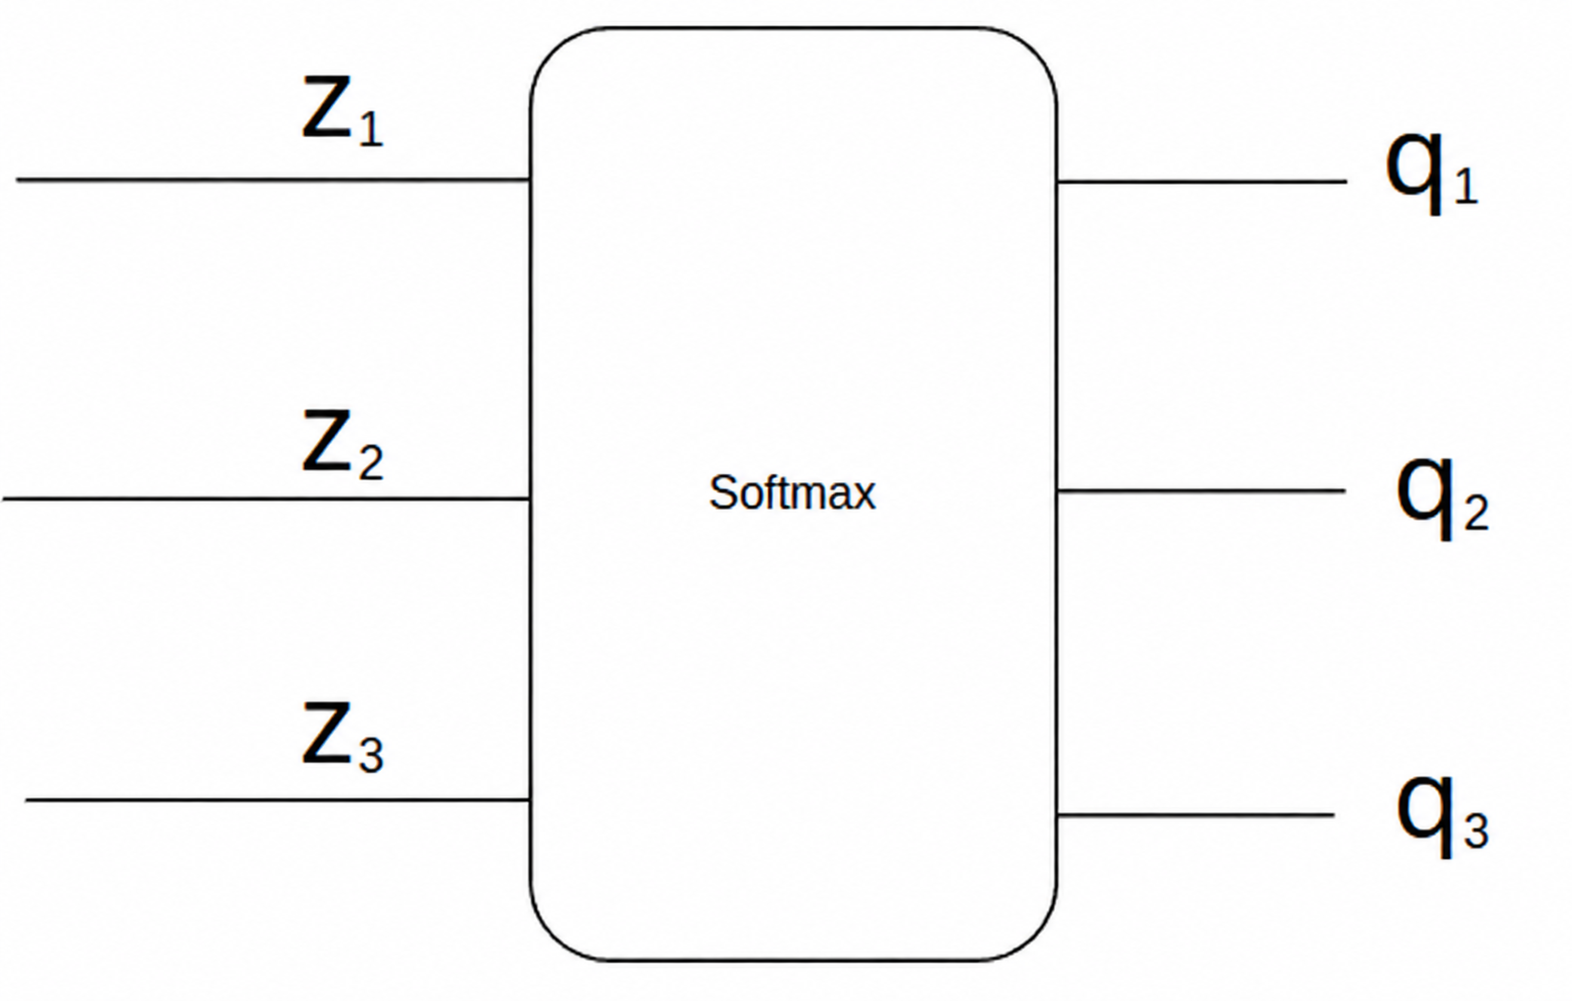
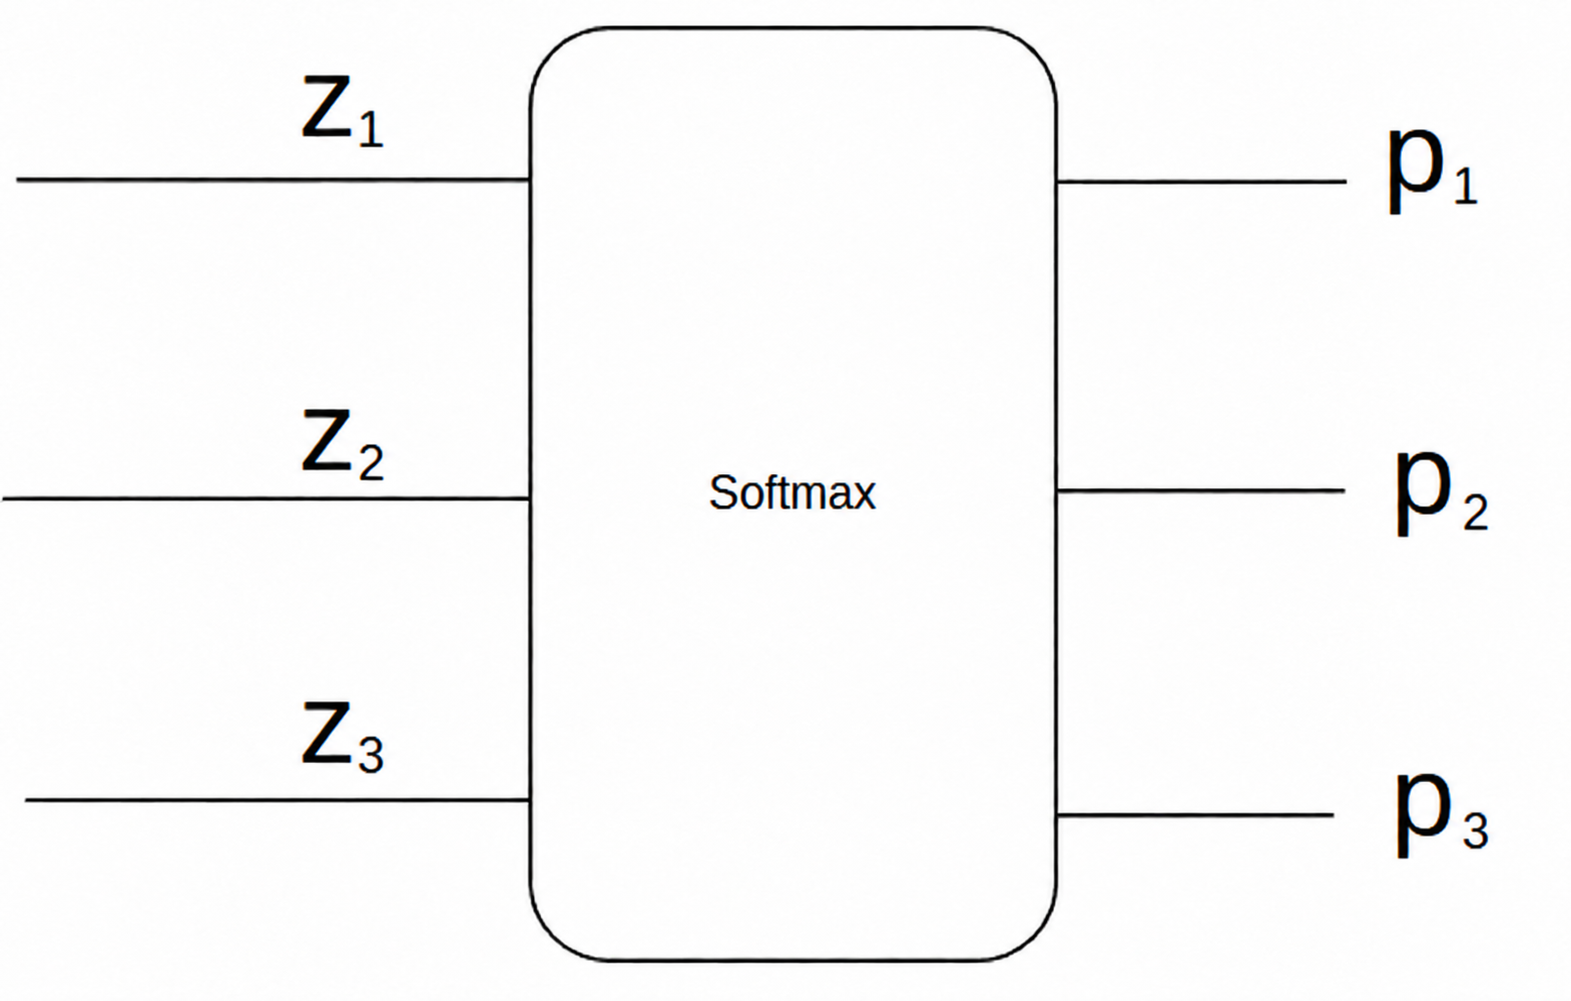
fix: change softmax output labels from q to p

diff --git a/site/src/content/notes/Machine Learning｜Deep Learning/deeplearning_06.md b/site/src/content/notes/Machine Learning｜Deep Learning/deeplearning_06.md
@@ -37,7 +37,7 @@ $$\mathbf{z} = [z_1,\ z_2,\ z_3]$$
 
 softmax는 여러 개의 실수를 받아, 모든 출력이 양수이고 합이 1이 되도록 바꾸는 함수입니다.
 
-<img src="../../../../public/images/notes/easy-deep-learning-ch05/softmax-input-output.png" alt="세 로짓 z1, z2, z3를 softmax 함수에 입력해 세 출력 q1, q2, q3로 변환하는 구조" width="432" loading="lazy" />
+<img src="../../../../public/images/notes/easy-deep-learning-ch05/softmax-input-output.png" alt="세 로짓 z1, z2, z3를 softmax 함수에 입력해 세 출력 p1, p2, p3로 변환하는 구조" width="432" loading="lazy" />
 
 각 클래스의 확률 $p_k$는 다음과 같습니다.
 
